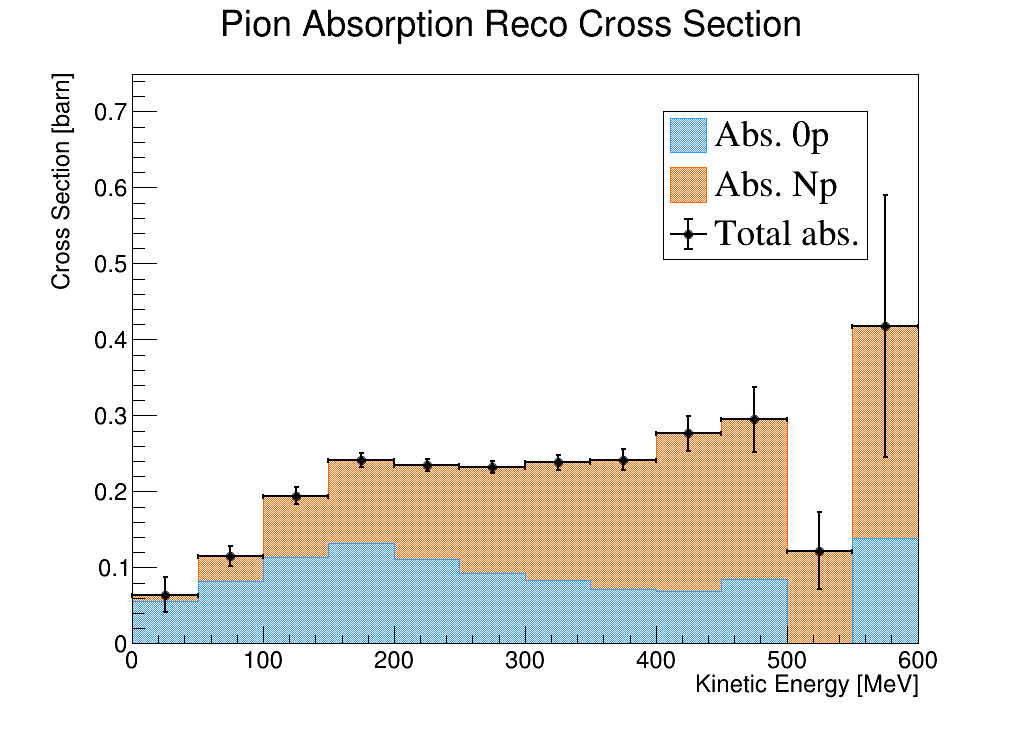
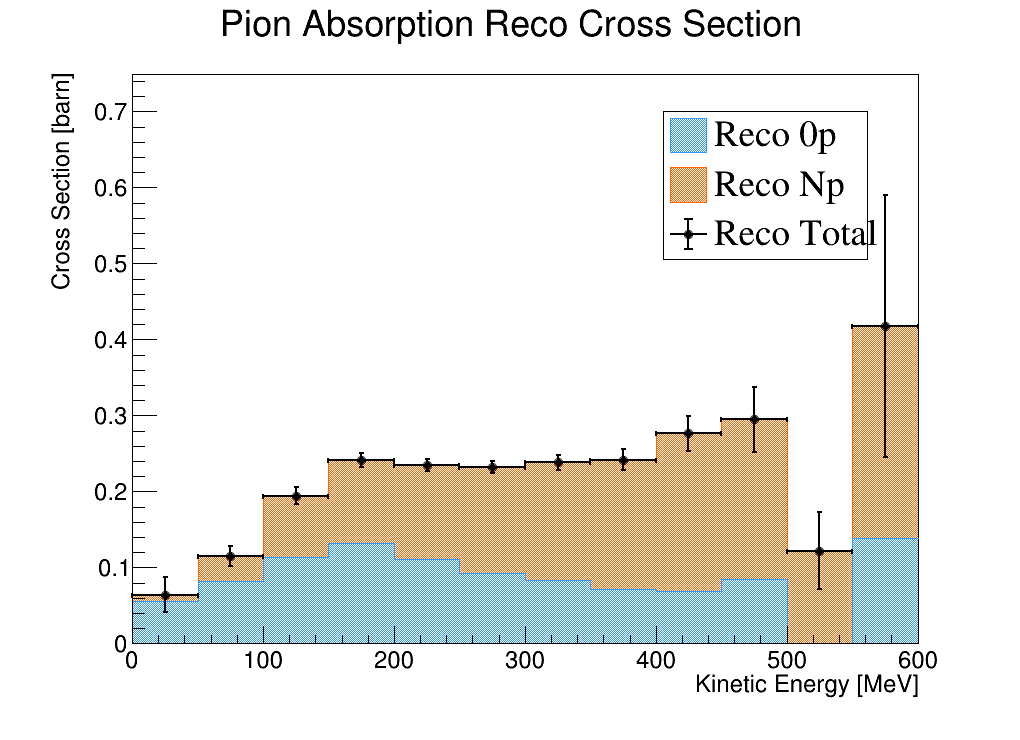
Overlay reco and truth cross sections

Changed region(s): [[0.699, 0.1554, 0.851, 0.3419]]

diff --git a/RecoAllAnalysis.cc b/RecoAllAnalysis.cc
@@ -196,6 +196,11 @@ void RecoAllAnalysis() {
     std::unique_ptr<TFile> File(TFile::Open(RootFilePath));
     TDirectory* Directory = (TDirectory*)File->Get("RecoAllEval");
 
+    // Load root file with true cross sections
+    TString TrueXSRootFilePath = "/exp/lariat/app/users/epelaez/files/TrueXSPionAbs_histo.root";
+    std::unique_ptr<TFile> TrueXSFile(TFile::Open(TrueXSRootFilePath));
+    TDirectory* TrueXSDirectory = (TDirectory*) TrueXSFile->Get("TrueXSPionAbs");
+
     ///////////////////
     // Load branches //
     ///////////////////
@@ -747,14 +752,20 @@ void RecoAllAnalysis() {
     // Cross-section histograms //
     //////////////////////////////
 
+    // True cross sections
+    TH1D* hPionAbsTrueCrossSection   = (TH1D*) TrueXSDirectory->Get("hCrossSectionPionAbs");
+    TH1D* hPion0pAbsTrueCrossSection = (TH1D*) TrueXSDirectory->Get("hCrossSectionPionAbs0p");
+    TH1D* hPionNpAbsTrueCrossSection = (TH1D*) TrueXSDirectory->Get("hCrossSectionPionAbsNp");
+
+    // Reco cross sections
     TH1D *hIncidentKE  = new TH1D("hRecoIncidentKE", "Incident KE [MeV]", 12, 0, 600);
     TH1D *hPionAbsKE   = new TH1D("hPionAbsKE", "Interacting KE [MeV]", 12, 0, 600);
     TH1D *h0pPionAbsKE = new TH1D("h0pPionAbsKE", "Interacting KE [MeV]", 12, 0, 600);
     TH1D *hNpPionAbsKE = new TH1D("hNpPionAbsKE", "Interacting KE [MeV]", 12, 0, 600);
 
-    TH1D *hPionAbsCrossSection   = new TH1D("hPionAbsCrossSection", "Cross section [barn]", 12, 0, 600);
-    TH1D *hPion0pAbsCrossSection = new TH1D("hPion0pAbsCrossSection", "Cross section [barn]", 12, 0, 600);
-    TH1D *hPionNpAbsCrossSection = new TH1D("hPionNpAbsCrossSection", "Cross section [barn]", 12, 0, 600);
+    TH1D *hPionAbsRecoCrossSection   = new TH1D("hPionAbsRecoCrossSection", "Cross section [barn]", 12, 0, 600);
+    TH1D *hPion0pAbsRecoCrossSection = new TH1D("hPion0pAbsRecoCrossSection", "Cross section [barn]", 12, 0, 600);
+    TH1D *hPionNpAbsRecoCrossSection = new TH1D("hPionNpAbsRecoCrossSection", "Cross section [barn]", 12, 0, 600);
 
     /////////////////////////////////
     // Files for event information //
@@ -1912,9 +1923,9 @@ void RecoAllAnalysis() {
         float pion0pAbsCrossSection = ((h0pPionAbsKE->GetBinContent(iBin) / hIncidentKE->GetBinContent(iBin)) * (1 / number_density) * (1 / slab_width)) * (1 / 1e-28);
         float pionNpAbsCrossSection = ((hNpPionAbsKE->GetBinContent(iBin) / hIncidentKE->GetBinContent(iBin)) * (1 / number_density) * (1 / slab_width)) * (1 / 1e-28);
 
-        hPionAbsCrossSection->SetBinContent(iBin, pionAbsCrossSection);
-        hPion0pAbsCrossSection->SetBinContent(iBin, pion0pAbsCrossSection);
-        hPionNpAbsCrossSection->SetBinContent(iBin, pionNpAbsCrossSection);
+        hPionAbsRecoCrossSection->SetBinContent(iBin, pionAbsCrossSection);
+        hPion0pAbsRecoCrossSection->SetBinContent(iBin, pion0pAbsCrossSection);
+        hPionNpAbsRecoCrossSection->SetBinContent(iBin, pionNpAbsCrossSection);
 
         float denomError = pow(hIncidentKE->GetBinContent(iBin),0.5);
         float denom      = hIncidentKE->GetBinContent(iBin);
@@ -1926,30 +1937,34 @@ void RecoAllAnalysis() {
         if(numAbs == 0){ continue; }
         float termAbs       = numErrorAbs / numAbs;
         float totalAbsError = (pionAbsCrossSection) * (std::pow(((termAbs * termAbs) + (termDenom * termDenom)), 0.5)) * (1 / number_density) * (1 / slab_width) * (1e26);
-        hPionAbsCrossSection->SetBinError(iBin, totalAbsError);
+        hPionAbsRecoCrossSection->SetBinError(iBin, totalAbsError);
 
         float numErrorAbs0p = pow(h0pPionAbsKE->GetBinContent(iBin), 0.5);
         float numAbs0p      = h0pPionAbsKE->GetBinContent(iBin);
         if(numAbs0p == 0){ continue; }
         float termAbs0p       = numErrorAbs0p / numAbs0p;
         float totalAbs0pError = (pion0pAbsCrossSection) * (std::pow(((termAbs0p * termAbs0p) + (termDenom * termDenom)), 0.5)) * (1 / number_density) * (1 / slab_width) * (1e26);
-        hPion0pAbsCrossSection->SetBinError(iBin, totalAbs0pError);
+        hPion0pAbsRecoCrossSection->SetBinError(iBin, totalAbs0pError);
 
         float numErrorAbsNp = pow(hNpPionAbsKE->GetBinContent(iBin), 0.5);
         float numAbsNp      = hNpPionAbsKE->GetBinContent(iBin);
         if(numAbsNp == 0){ continue; }
         float termAbsNp       = numErrorAbsNp / numAbsNp;
         float totalAbsNpError = (pionNpAbsCrossSection) * (std::pow(((termAbsNp * termAbsNp) + (termDenom * termDenom)), 0.5)) * (1 / number_density) * (1 / slab_width) * (1e26);
-        hPionNpAbsCrossSection->SetBinError(iBin, totalAbsNpError);
+        hPionNpAbsRecoCrossSection->SetBinError(iBin, totalAbsNpError);
     }
 
     std::vector<TH1D*> XSecHistos = {
-        hPionAbsCrossSection, 
-        hPion0pAbsCrossSection,
-        hPionNpAbsCrossSection
+        hPionAbsRecoCrossSection, 
+        hPion0pAbsRecoCrossSection,
+        hPionNpAbsRecoCrossSection
     };
 
     TCanvas* XSecCanvas = new TCanvas("Canvas", "Canvas", 205, 34, 1024, 768);
+
+    ////////////////////////////
+    // Draw them individually //
+    ////////////////////////////
 
     gStyle->SetOptStat(0);
     for (size_t i = 0; i < XSecHistos.size(); ++i) {
@@ -1985,43 +2000,112 @@ void RecoAllAnalysis() {
         XSecCanvas->SaveAs(SaveDir + "CrossSection/" + histName + ".png");
     }
 
+    ///////////////////////
+    // Draw them stacked //
+    ///////////////////////
+
     // Create a stacked histogram for pion absorption 0p and Np
     THStack* hStackPionAbs = new THStack("hStackPionAbs", "Pion Absorption Reco Cross Section;Kinetic Energy [MeV];Cross Section [barn]");
 
     // Set colors for stack
-    hPion0pAbsCrossSection->SetFillColor(kAzure+1);
-    hPion0pAbsCrossSection->SetLineColor(kAzure+1);
+    hPion0pAbsRecoCrossSection->SetFillColor(kAzure+1);
+    hPion0pAbsRecoCrossSection->SetLineColor(kAzure+1);
 
-    hPionNpAbsCrossSection->SetFillColor(kOrange+7);
-    hPionNpAbsCrossSection->SetLineColor(kOrange+7);
+    hPionNpAbsRecoCrossSection->SetFillColor(kOrange+7);
+    hPionNpAbsRecoCrossSection->SetLineColor(kOrange+7);
 
     // Add to stack
-    hStackPionAbs->Add(hPion0pAbsCrossSection, "H");
-    hStackPionAbs->Add(hPionNpAbsCrossSection, "H");
+    hStackPionAbs->Add(hPion0pAbsRecoCrossSection, "H");
+    hStackPionAbs->Add(hPionNpAbsRecoCrossSection, "H");
 
     hStackPionAbs->Draw("hist");
-    hStackPionAbs->SetMaximum(1.1 * std::max(hPionAbsCrossSection->GetMaximum(), hStackPionAbs->GetMaximum()));
+    hStackPionAbs->SetMaximum(1.1 * std::max(hPionAbsRecoCrossSection->GetMaximum(), hStackPionAbs->GetMaximum()));
     hStackPionAbs->GetXaxis()->SetTitle("Kinetic Energy [MeV]");
     hStackPionAbs->GetYaxis()->SetTitle("Cross Section [barn]");
 
     // Draw total pion absorption cross-section on top
-    hPionAbsCrossSection->SetLineColor(kBlack);
-    hPionAbsCrossSection->SetLineWidth(2);
-    hPionAbsCrossSection->SetMarkerSize(1.2);
-    hPionAbsCrossSection->SetMarkerStyle(20);
-    hPionAbsCrossSection->SetMarkerColor(kBlack);
-    hPionAbsCrossSection->Draw("E1 SAME");
+    hPionAbsRecoCrossSection->SetLineColor(kBlack);
+    hPionAbsRecoCrossSection->SetLineWidth(2);
+    hPionAbsRecoCrossSection->SetMarkerSize(1.2);
+    hPionAbsRecoCrossSection->SetMarkerStyle(20);
+    hPionAbsRecoCrossSection->SetMarkerColor(kBlack);
+    hPionAbsRecoCrossSection->Draw("E1 SAME");
 
     // Add legend
     TLegend* leg = new TLegend(0.65, 0.65, 0.85, 0.85);
     leg->SetTextFont(FontStyle);
     leg->SetTextSize(TextSize * 0.9);
-    leg->AddEntry(hPion0pAbsCrossSection, "Abs. 0p", "f");
-    leg->AddEntry(hPionNpAbsCrossSection, "Abs. Np", "f");
-    leg->AddEntry(hPionAbsCrossSection, "Total abs.", "lep");
-    leg->Draw();
+    leg->AddEntry(hPion0pAbsRecoCrossSection, "Reco 0p", "f");
+    leg->AddEntry(hPionNpAbsRecoCrossSection, "Reco Np", "f");
+    leg->AddEntry(hPionAbsRecoCrossSection, "Reco Total", "lep");
 
+    leg->Draw();
     XSecCanvas->SaveAs(SaveDir + "CrossSection/PionAbsorptionStacked.png");
+    delete leg;
+
+    ///////////////////////////////////
+    // Draw them overlaid with truth //
+    ///////////////////////////////////
+
+    hPionAbsRecoCrossSection->SetMaximum(1.15 * std::max({
+        hPionAbsTrueCrossSection->GetMaximum(),
+        hPionAbsRecoCrossSection->GetMaximum(),
+        hPion0pAbsRecoCrossSection->GetMaximum(),
+        hPionNpAbsRecoCrossSection->GetMaximum()
+    }));
+
+    hPionAbsRecoCrossSection->SetFillColorAlpha(kBlack, 0.0);
+    hPionAbsRecoCrossSection->SetMarkerColor(kBlack);
+    hPionAbsRecoCrossSection->SetLineColor(kBlack);
+    hPionAbsRecoCrossSection->SetLineWidth(2);
+    hPionAbsRecoCrossSection->Draw("HIST E1");
+
+    hPion0pAbsRecoCrossSection->SetFillColorAlpha(kAzure+1, 0.2);
+    hPion0pAbsRecoCrossSection->SetMarkerColor(kAzure+1);
+    hPion0pAbsRecoCrossSection->SetLineColor(kAzure+1);
+    hPion0pAbsRecoCrossSection->SetLineWidth(2);
+    hPion0pAbsRecoCrossSection->Draw("HIST E1 SAME");
+
+    hPionNpAbsRecoCrossSection->SetFillColorAlpha(kOrange+7, 0.2);
+    hPionNpAbsRecoCrossSection->SetMarkerColor(kOrange+7);
+    hPionNpAbsRecoCrossSection->SetLineColor(kOrange+7);
+    hPionNpAbsRecoCrossSection->SetLineWidth(2);
+    hPionNpAbsRecoCrossSection->Draw("HIST E1 SAME");
+
+    // Draw true cross-sections
+    hPion0pAbsTrueCrossSection->SetMarkerStyle(20);
+    hPion0pAbsTrueCrossSection->SetMarkerColor(kAzure+4);
+    hPion0pAbsTrueCrossSection->SetLineColor(kAzure+4);
+    hPion0pAbsTrueCrossSection->SetMarkerSize(1.2);
+    hPion0pAbsTrueCrossSection->Draw("E1 SAME");
+
+    hPionNpAbsTrueCrossSection->SetMarkerStyle(20);
+    hPionNpAbsTrueCrossSection->SetMarkerColor(kOrange+9);
+    hPionNpAbsTrueCrossSection->SetLineColor(kOrange+9);
+    hPionNpAbsTrueCrossSection->SetMarkerSize(1.2);
+    hPionNpAbsTrueCrossSection->Draw("E1 SAME");
+
+    hPionAbsTrueCrossSection->SetMarkerStyle(20);
+    hPionAbsTrueCrossSection->SetMarkerColor(kGray+2);
+    hPionAbsTrueCrossSection->SetLineColor(kGray+2);
+    hPionAbsTrueCrossSection->SetMarkerSize(1.2);
+    hPionAbsTrueCrossSection->Draw("E1 SAME");
+
+    // Add legend
+    TLegend* leg2 = new TLegend(0.60, 0.55, 0.85, 0.85);
+    leg2->SetTextFont(FontStyle);
+    leg2->SetTextSize(TextSize * 0.9);
+    leg2->AddEntry(hPion0pAbsRecoCrossSection, "Reco 0p", "f");
+    leg2->AddEntry(hPionNpAbsRecoCrossSection, "Reco Np", "f");
+    leg2->AddEntry(hPionAbsRecoCrossSection, "Reco Total", "f");
+    leg2->AddEntry(hPion0pAbsTrueCrossSection, "True 0p", "lep");
+    leg2->AddEntry(hPionNpAbsTrueCrossSection, "True Np", "lep");
+    leg2->AddEntry(hPionAbsTrueCrossSection, "True Total", "lep");
+
+    leg2->Draw();
+    XSecCanvas->SaveAs(SaveDir + "CrossSection/PionAbsorptionOverlay.png");
+    delete leg2;
+
     delete XSecCanvas;
 
     gStyle->SetOptStat(1);
@@ -2137,7 +2221,7 @@ void RecoAllAnalysis() {
 
         // Cross section
         {"Incident"},
-        {"All", "0p", "Np"}
+        {"All abs", "0p abs", "Np abs"}
     };
 
     std::vector<TString> PlotTitles = {
